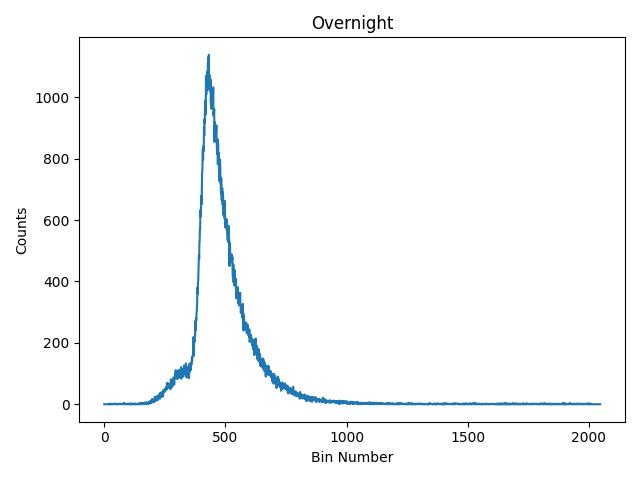
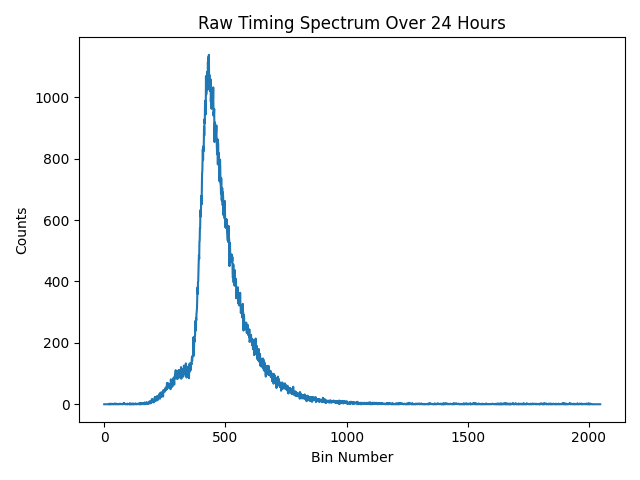
Finished lab 5

Changed region(s): [[0.3125, 0.0312, 0.8125, 0.0625]]

diff --git a/lab5/main.py b/lab5/main.py
@@ -36,10 +36,188 @@ def createFig(importName, title, exportName):
     fig.savefig(exportName)
 
 
-createFig("Trial_1.spe", "Trial 1", "trial1.png")
+def halfLife(t, a, b, c):
+    return a*np.exp(-b*t)+c
+
+
+createFig("Trial_1.spe", "Raw Timing Spectrum Trial 1", "trial1.png")
+data1 = readSPE("Trial_1.spe")
+data2 = readSPE("Trial_2.spe")
+data3 = readSPE("Trial_3.spe")
+data4 = readSPE("Adlab Complex Sean and Kevin Data.spe")
+data5 = readSPE("2022_03_31_alpha_gamma_1800s.spe")
+'''
+for i in range(len(data1[0])):
+    print(data1[1][i], data1[0][i], data2[0][i],
+          data3[0][i], data4[0][i], data5[0][i])
+'''
 createFig("Trial_2.spe", "Trial 2", "trial2.png")
 createFig("Trial_3.spe", "Trial 3", "trial3.png")
 createFig("Adlab Complex Sean and Kevin Data.spe",
-          "Overnight", "overnight.png")
-createFig("2022_03_31_alpha_gamma_1800s.spe", "30 Minutes", "short.png")
-createFig("2022_03_31_alph_gam_cal_40ns_2p56us.Spe", 'Broken', "broken.png")
+          "Raw Timing Spectrum Over 24 Hours", "overnight.png")
+createFig("2022_03_31_alpha_gamma_1800s.spe",
+          "Raw Timing Spectrum Over 30 Minutes", "short.png")
+createFig("2022_03_31_alph_gam_cal_40ns_2p56us.Spe",
+          'Timing Calibration Plot', "calibration.png")
+data = readSPE("2022_03_31_alph_gam_cal_40ns_2p56us.spe")
+bin = []
+hit = []
+for i in range(len(data[0])):
+    if data[0][i] != 0:
+        if len(bin) > 1:
+            if data[1][i] - bin[-1] > 1:
+                bin.append(data[1][i])
+                hit.append(data[0][i])
+        else:
+            bin.append(data[1][i])
+            hit.append(data[0][i])
+avg = []
+for i in range(len(bin)):
+    if i == 0:
+        continue
+    else:
+        avg.append(bin[i]-bin[i-1])
+print(len(avg), len(hit))
+hit.pop(0)
+print(np.average(np.array(avg), weights=np.array(hit)))
+time = 40/np.average(np.array(avg))
+print(time)
+
+
+fig = plt.figure(figsize=(9, 3))
+ax = fig.subplots(1, 2)
+ax[0].errorbar(data2[1], data2[0])
+ax[0].set_title("Raw Timing Spectrum from Trial 1")
+ax[0].set_ylabel('Counts')
+ax[0].set_xlabel('Bin Number')
+ax[1].errorbar(data3[1], data3[0])
+ax[1].set_title("Raw Timing Spectrum from Trial 2")
+ax[1].set_ylabel('Counts')
+ax[1].set_xlabel('Bin Number')
+plt.tight_layout()
+fig.savefig("rawTimingSpecs.png")
+
+data30Min = []
+bin = []
+hit = []
+for i in range(len(data5[0])):
+    if i > 600:
+        if i < 851:
+            bin.append(data5[1][i-600])
+            hit.append(data5[0][i])
+hit.reverse()
+data30Min.append(hit)
+data30Min.append(bin)
+min30Popt, min30Pcov = curve_fit(halfLife, bin, hit, [35, 1/850, 0])
+min30Un = np.sqrt(np.diag(min30Pcov))
+print(len(bin))
+print(min30Popt)
+print(min30Un)
+print(umath.log(2)
+      / uncertainties.ufloat(min30Popt[1], min30Un[1])/time*10**(-9))
+plus = min30Popt+min30Un
+minus = min30Popt-min30Un
+fig = plt.figure()
+ax = fig.subplots()
+ax.errorbar(data30Min[1], data30Min[0])
+ax.errorbar(bin, halfLife(np.array(bin), *min30Popt), label='I = '+str("%.3f" %
+            min30Popt[0])+'*e^(-'+str("%.3f" % min30Popt[1])+'*x)+'+str("%.3f" % min30Popt[2]))
+ax.errorbar(bin, halfLife(np.array(bin), *plus), fmt="k",label='Uncertainty due to the standard deviation of the parameters')
+ax.errorbar(bin, halfLife(np.array(bin), *minus), fmt="k")
+
+ax.set_ylabel('Counts')
+ax.set_xlabel('Time (ns)')
+ax.set_title('Measured Decay Over 30 Minutes')
+ax.legend()
+plt.tight_layout()
+fig.savefig("specificData30Min.png")
+
+data24Hr = []
+bin = []
+hit = []
+for i in range(len(data4[0])):
+    if i > 430:
+        if i < 1000:
+            bin.append(data4[1][i-430])
+            hit.append(data4[0][i])
+data24Hr.append(hit)
+data24Hr.append(bin)
+hr24Popt, hr24Pcov = curve_fit(halfLife, bin, hit, [1000, 1/1000, 0])
+hr24Un = np.sqrt(np.diag(hr24Pcov))
+plus = hr24Popt+hr24Un
+minus = hr24Popt-hr24Un
+print(len(bin))
+print(hr24Popt)
+print(plus)
+print(minus)
+print(hr24Un)
+print(umath.log(2)/uncertainties.ufloat(hr24Popt[1], hr24Un[1])/time*10**(-9))
+fig = plt.figure()
+ax = fig.subplots()
+ax.errorbar(data24Hr[1], data24Hr[0])
+ax.errorbar(bin, halfLife(np.array(bin), *hr24Popt), label='I = '+str("%.3f" %
+            hr24Popt[0])+'*e^(-'+str("%.3f" % hr24Popt[1])+'*x)+'+str("%.3f" % hr24Popt[2]))
+ax.errorbar(bin, halfLife(np.array(bin), *plus), fmt="k",label='Uncertainty due to the standard deviation of the parameters')
+ax.errorbar(bin, halfLife(np.array(bin), *minus), fmt="k")
+ax.set_ylabel('Counts')
+ax.set_xlabel('Time (ns)')
+ax.set_title('Measured Decay Over 24 Hours')
+ax.legend()
+plt.tight_layout()
+fig.savefig("specificData24Hr.png")
+
+dataTr2 = []
+bin = []
+hit = []
+for i in range(len(data2[0])):
+    if i > 100:
+        if i < 330:
+            bin.append(data2[1][i-100])
+            hit.append(data2[0][i])
+hit.reverse()
+dataTr2.append(hit)
+dataTr2.append(bin)
+tr2Popt, tr2Pcov = curve_fit(halfLife, bin, hit, [350, 1/300, 0])
+tr2Un = np.sqrt(np.diag(tr2Pcov))
+print(tr2Popt)
+print(tr2Un)
+print(umath.log(2)/uncertainties.ufloat(tr2Popt[1], tr2Un[1])/time*10**(-9))
+fig = plt.figure()
+ax = fig.subplots()
+ax.errorbar(dataTr2[1], dataTr2[0])
+ax.errorbar(bin, halfLife(np.array(bin), *tr2Popt), label='I = '+str("%.3f" %
+            tr2Popt[0])+'*e^(-'+str("%.3f" % tr2Popt[1])+'*x)+'+str("%.3f" % tr2Popt[2]))
+ax.set_ylabel('Counts')
+ax.set_xlabel('Time (ns)')
+ax.set_title('Measured Decay of Trial 1')
+ax.legend()
+plt.tight_layout()
+fig.savefig("specificDataTr2.png")
+
+dataTr3 = []
+bin = []
+hit = []
+for i in range(len(data3[0])):
+    if i > 100:
+        if i < 330:
+            bin.append(data3[1][i-100])
+            hit.append(data3[0][i])
+hit.reverse()
+dataTr3.append(hit)
+dataTr3.append(bin)
+tr3Popt, tr3Pcov = curve_fit(halfLife, bin, hit, [350, 1/300, 0])
+tr3Un = np.sqrt(np.diag(tr3Pcov))
+print(tr3Popt)
+print(tr3Un)
+print(umath.log(2)/uncertainties.ufloat(tr3Popt[1], tr3Un[1])/time*10**(-9))
+fig = plt.figure()
+ax = fig.subplots()
+ax.errorbar(dataTr3[1], dataTr3[0])
+ax.errorbar(bin, halfLife(np.array(bin), *tr3Popt), label='I = '+str("%.3f" %
+            tr3Popt[0])+'*e^(-'+str("%.3f" % tr3Popt[1])+'*x)+'+str("%.3f" % tr3Popt[2]))
+ax.legend()
+ax.set_ylabel('Counts')
+ax.set_xlabel('Time (ns)')
+ax.set_title('Measured Decay of Trial 2')
+plt.tight_layout()
+fig.savefig("specificDataTr3.png")
